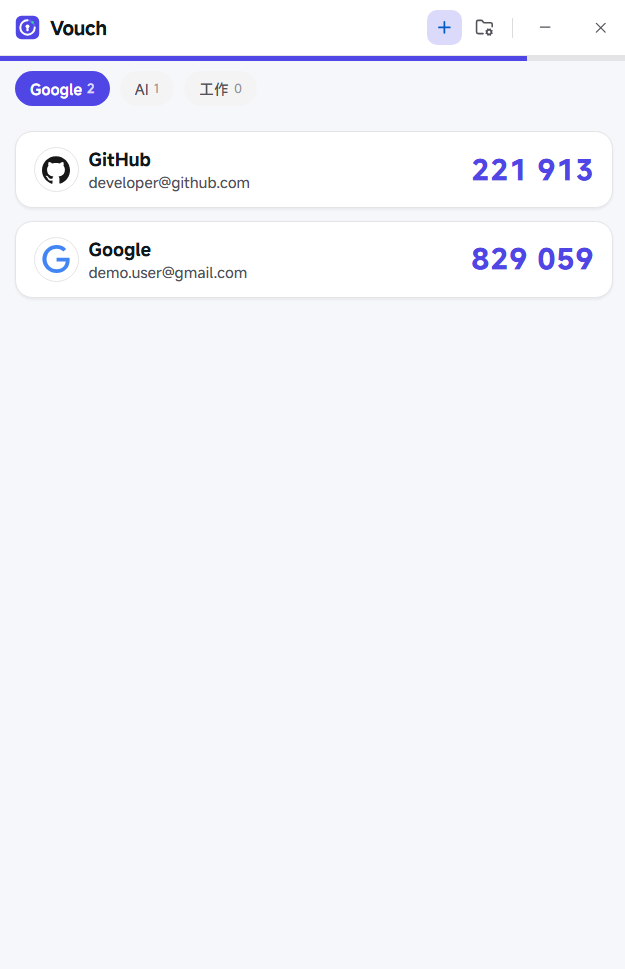
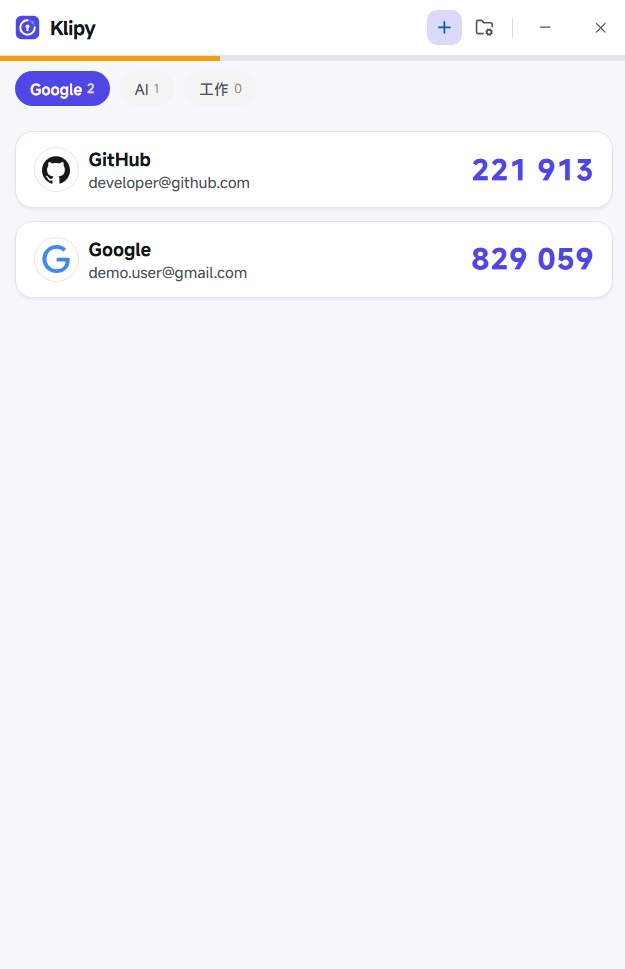
Rename app to Klipy and remove group count limit

Changed region(s): [[0.0, 0.0, 0.8208, 0.0619]]

diff --git a/src/renderer/components/GroupManagementPage.tsx b/src/renderer/components/GroupManagementPage.tsx
@@ -175,7 +175,7 @@ export function GroupManagementPage({ groups, accounts, onChanged }: GroupManage
                 color="primary"
                 startContent={!creating ? <Plus size={15} strokeWidth={2.2} /> : undefined}
                 isLoading={creating}
-                isDisabled={!name.trim() || groups.length >= 50}
+                isDisabled={!name.trim()}
                 onPress={() => void create()}
                 className="h-9 px-3.5 font-medium flex-shrink-0"
               >
@@ -201,7 +201,7 @@ export function GroupManagementPage({ groups, accounts, onChanged }: GroupManage
       <div className="flex items-center justify-between px-4 pt-1.5 pb-2">
         <span className="text-xs font-semibold text-default-600">分组列表</span>
         <span className="rounded-full bg-default-100 px-2 py-0.5 text-[11px] font-medium tabular-nums text-default-500">
-          {groups.length} / 50
+          {groups.length} 个
         </span>
       </div>
 

diff --git a/src/main/main.js b/src/main/main.js
@@ -68,7 +68,7 @@ async function createWindow() {
     fullscreenable: false,
     show: false,
     backgroundColor: '#f5f7fa',
-    title: 'Vouch',
+    title: 'Klipy',
     icon: path.join(root, 'public', 'app-icon.png'),
     webPreferences: {
       preload: path.join(__dirname, 'preload.js'),
@@ -97,7 +97,7 @@ app.whenReady().then(() => {
   registerIpc();
   return createWindow();
 }).catch((error) => {
-  dialog.showErrorBox('Vouch 启动失败', error.message);
+  dialog.showErrorBox('Klipy 启动失败', error.message);
   app.quit();
 });
 app.on('window-all-closed', () => app.quit());

diff --git a/src/renderer/components/TitleBar.tsx b/src/renderer/components/TitleBar.tsx
@@ -74,7 +74,7 @@ export const TitleBar: React.FC<TitleBarProps> = ({
           <>
             <Image
               src="./logo.svg"
-              alt="Vouch Logo"
+              alt="Klipy Logo"
               width={20}
               height={20}
               radius="none"
@@ -82,7 +82,7 @@ export const TitleBar: React.FC<TitleBarProps> = ({
               className="pointer-events-none"
             />
             <span className="text-[15px] font-semibold text-foreground tracking-tight">
-              Vouch
+              Klipy
             </span>
           </>
         )}

diff --git a/index.html b/index.html
@@ -4,7 +4,7 @@
     <meta charset="UTF-8" />
     <meta name="viewport" content="width=device-width, initial-scale=1.0" />
     <link rel="icon" type="image/svg+xml" href="./logo.svg" />
-    <title>Vouch</title>
+    <title>Klipy</title>
   </head>
   <body class="light bg-background text-foreground min-h-screen select-none">
     <div id="root"></div>

diff --git a/backend/GroupStore.cs b/backend/GroupStore.cs
@@ -12,7 +12,6 @@ namespace AuthenticatorBackend
     /// </summary>
     public class GroupStore
     {
-        private const int MaxGroups = 50;
         private const int MaxNameLength = 20;
 
         private readonly string _filePath;
@@ -85,10 +84,6 @@ namespace AuthenticatorBackend
             string clean = NormalizeName(name);
             lock (_lock)
             {
-                if (_groups.Count >= MaxGroups)
-                {
-                    throw new InvalidOperationException($"最多只能创建 {MaxGroups} 个分组。");
-                }
                 if (HasSameName(clean, null))
                 {
                     throw new InvalidOperationException("分组名称已存在。");
@@ -114,11 +109,6 @@ namespace AuthenticatorBackend
                 var existing = _groups.FirstOrDefault(g =>
                     string.Equals(g.Name, clean, StringComparison.OrdinalIgnoreCase));
                 if (existing != null) return ToDto(existing);
-
-                if (_groups.Count >= MaxGroups)
-                {
-                    throw new InvalidOperationException($"最多只能创建 {MaxGroups} 个分组。");
-                }
 
                 var group = new GroupRecord
                 {

diff --git a/HANDOFF.md b/HANDOFF.md
@@ -1,10 +1,10 @@
 # 项目交接文档 (Handoff Document)
 
-**项目名称**：Vouch（Windows 轻量级 2FA / TOTP 身份验证器）  
+**项目名称**：Klipy（Windows 轻量级 2FA / TOTP 身份验证器）  
 **当前版本**：`1.0.0`  
 **技术栈**：Electron 33.4.11 + React 18 + TypeScript + HeroUI (`@heroui/react` 2.8.10) + Tailwind CSS 3 + Framer Motion 11 + C# (.NET 10)  
 **文档日期**：2026-11-20  
-**最近更新**：2026-11-20 20:10（定名 Vouch、平面扁平式 Logo 重制、分组管理页 UI 优化并推送 GitHub 公开仓库）  
+**最近更新**：2026-11-20 20:16（定名 Klipy、移除分组数量上限、平面扁平式 Logo 重制、分组管理页 UI 优化并同步 GitHub 公开仓库）  
 **当前状态**：可运行；`dist/` 与 `bin/backend/` 已按最新代码重新构建并通过验证。  
 
 > ⚠ **不要清空 `%APPDATA%\WindowsAuthenticatorDemo`**：其中已是用户的真实数据（9 个账号，均在 `Google` 分组）。需要测试时请设置 `AUTHENTICATOR_DATA_DIR` 指向临时目录。
@@ -31,7 +31,7 @@
   - **账号头像**：内置 85 个常见品牌图标（`public/brands/si/<slug>.svg`，24×24 path + 官方品牌色），匹配时先看服务名称（issuer）、再看账号字段，因此「未命名 / Muse」这类迁移账号也能拿到图标；未识别服务或图片加载失败时使用名称缩写。素材出处见 [`public/brands/SOURCES.md`](public/brands/SOURCES.md)。
 - **分组管理**（账号必须归属分组，不提供「未分组」）：
   - 点击标题栏文件夹按钮进入独立「分组管理」页：标题栏左侧变为返回按钮，页面可**新建、重命名、删除**分组，并显示每个分组下的账号数。
-  - 分组名称校验：非空、最长 20 字符、不区分大小写去重；最多 50 个分组。错误提示由 `formatError` 剥离 Electron IPC 包装后直接展示后端中文文案。
+  - 分组名称校验：非空、最长 20 字符、不区分大小写去重；不限制分组数量。错误提示由 `formatError` 剥离 Electron IPC 包装后直接展示后端中文文案。
   - 删除分组前弹确认框，**组内账号会随分组一并删除**（确认框会标明数量与不可撤销）；重命名在同一位置内联编辑（Enter 保存、Esc 取消）。
   - 数据保存在 `%APPDATA%\WindowsAuthenticatorDemo\groups.json`；账号通过 `accounts.json` 中的 `groupId` 字段引用分组，后端在启动时会把「没有分组 / 分组已不存在」的历史账号收进「默认分组」，避免账号从界面上消失。
   - 账号列表顶部出现**分组筛选栏**（`GroupFilterBar`）：只列出各分组胶囊按钮（带数量），没有「全部」也没有「未分组」；进入列表时自动落在某个有效分组（优先第一个有账号的分组）。
@@ -221,7 +221,7 @@
 
 1. **密钥存储安全性**：目前为 Demo 阶段，账号 `secret` 以明文 JSON 存储在 `%APPDATA%\WindowsAuthenticatorDemo\accounts.json`（分组只存名称，不含密钥）。后续上线生产前建议在 C# 层使用 Windows DPAPI（`System.Security.Cryptography.ProtectedData`）对 `Secret` 字段或整文件进行本机用户态加密。
 2. **迁移导入范围**：`parsemigration` 只导入 TOTP 且算法非 MD5 的条目，HOTP 账号会被计入 `skipped` 并跳过；Google Authenticator 的分批导出（`batchSize > 1`）需要用户分别导入每个链接，当前不做跨批次合并。
-3. **分组容量与排序**：分组最多 50 个、名称最长 20 字符；分组本身按创建时间排序，不支持拖拽调整分组顺序。因为账号必须归属分组，**删除分组会连带删除组内账号**（确认框会显示数量），目前没有「移到其他分组」的批量操作；如需保留账号，请先在「编辑」里逐个改到其它分组。
+3. **分组容量与排序**：分组数量不设上限，名称最长 20 字符；分组本身按创建时间排序，不支持拖拽调整分组顺序。因为账号必须归属分组，**删除分组会连带删除组内账号**（确认框会显示数量），目前没有「移到其他分组」的批量操作；如需保留账号，请先在「编辑」里逐个改到其它分组。
 4. **自定义刷新周期兼容**：后端支持任意 `period`（如 60 秒），但当前前端 `<TotpProgress>` 动画与刷新定时器固定按 `30000ms` 周期计算。若后续在界面重新开放非 30 秒周期录入，需改为基于各账号 `period` 独立计算或分类展示倒计时。
 5. **独立打包与分发**：当前 `npm run build:backend` 采用框架依赖发布（依赖目标机器存在 .NET 10 运行时）。若需打包为独立安装包给无 .NET 环境的用户使用，可将 `build:backend` 调整为 `dotnet publish backend/AuthenticatorBackend.csproj -c Release -r win-x64 --self-contained true -p:PublishSingleFile=true -o bin/backend`，并引入 `electron-builder` 配置将 `dist/` 与 `bin/backend/` 一起打入安装包的 `resources`。
 6. **测试覆盖**：当前以构建检查、脚本化协议验证与无头渲染校验为主，尚未建立自动化单元测试套件。建议后续为 `TotpEngine.cs` 补充 RFC 6238 / RFC 4226 标准测试向量单元测试，并为 `MigrationParser` 增加固定样本测试。
@@ -293,20 +293,21 @@
   - 无头 Chrome（mock bridge，400×620@2x）16 项断言全 PASS：筛选栏仅 Google/AI 两个分组且无「未分组/全部」、Muse 与 OpenAI/Google/Mozilla 图标全部解码成功、`0penai` 命中 OpenAI、添加弹窗分组必选且提交时自动带上当前分组、删除确认显示「5 个账号…一并删除」、无分组时隐藏 `+` 且显示引导；截图见临时目录（不随仓库分发）。
   - 用户真实数据（9 个账号 + Google 分组）未被测试触碰。
 
-## 12. 品牌定名（Vouch）、平面扁平式 Logo 与分组管理 UI 优化（2026-11-20 晚）
+## 12. 品牌定名（Klipy）、平面扁平式 Logo、分组管理 UI 优化与移除分组上限（2026-11-20 晚）
 
-- **产品定名**：**Vouch**
-  - 纯英文短词，意为「证明、核验、担保可信」，不含 `auth`，与轻量化桌面 2FA 工具气质契合。
+- **产品定名**：**Klipy**
+  - 纯英文短词，融合 **K**ey（动态密钥）与 C**lip**（单击即复制到剪贴板），不含 `auth`，轻快好记。
   - 数据目录保持 `%APPDATA%\WindowsAuthenticatorDemo` 不变，确保用户已有真实数据不受影响。
 - **现代化平面扁平式 Logo**：
-  - 彻底移除旧版深色拟物玻璃、渐变与发光滤镜，重制为仅由 6 个基础几何图元构成的纯平 2D 矢量 SVG（`viewBox="0 0 512 512"`，约 0.98 KB）：
+  - 彻底移除旧版深色拟物玻璃、渐变与发光滤镜，重制为仅由 6 个基础几何图元构成的纯平 2D 矢量 SVG（`viewBox="0 0 512 512"`，约 0.97 KB）：
     - HeroUI 靛蓝圆角方形底托（`#4F46E5`）+ 纯平轨道（`#6860F0`）+ 270° 白色倒计时环（`#FFFFFF`）+ 右上 1:30 翠绿时间脉冲点（`#34D399`）+ 居中实心几何钥匙孔（`#FFFFFF`）。
   - 同步更新 `logo.svg`、`public/logo.svg`、`src/renderer/assets/logo.svg`，导出透明底 `512×512` 的 `public/app-icon.png` 作为 Electron 窗口与任务栏图标，并重绘浅色扁平风格的品牌展示图 `logo-preview.png`。
-- **分组管理页 UI 优化（`GroupManagementPage.tsx`）**：
-  - 删除底部「账号必须属于某个分组；删除分组会同时删除组内账号。」提示文案（删除确认弹窗内仍保留清晰的级联删除警示）。
-  - 顶部新建区收拢为单行紧凑卡片（带清除按钮与内联错误提示）；列表项改用 `Folder` 图标配柔和靛蓝圆角底托，统一卡片阴影与悬停反馈；重命名态独立高亮并就地展示校验错误；空状态与删除确认弹窗同步精细化排版。
+- **分组管理优化与取消上限**：
+  - 后端 `GroupStore.cs` 移除 `MaxGroups = 50` 限制，不再对分组总数设上限。
+  - 前端 `GroupManagementPage.tsx` 移除底部「账号必须属于某个分组；删除分组会同时删除组内账号。」文案及 50 上限禁用逻辑，计数胶囊改为 `{groups.length} 个`；顶部新建区收拢为单行紧凑卡片；列表项改用 `Folder` 图标配柔和靛蓝圆角底托并优化重命名态、空状态与删除确认弹窗。
 - **界面、文档与仓库**：
-  - 更新 `TitleBar.tsx`、`index.html`、`src/main/main.js`、`启动.bat`、`package.json`、`README.md` 与本文档，并初始化 Git 仓库推送至 GitHub 公开仓库。
+  - 更新 `TitleBar.tsx`、`index.html`、`src/main/main.js`、`启动.bat`、`package.json`、`README.md` 与本文档，并同步至 GitHub 公开仓库 `https://github.com/LuoMuQAQ/Klipy`。
 - **验证**：
-  - `npx tsc --noEmit` 与 `npm run build:vite` 均以退出码 `0` 通过。
+  - `npx tsc --noEmit`、`npm run build:vite` 与 `npm run build:backend` 均以退出码 `0` 通过。
+  - 协议测试（临时 `AUTHENTICATOR_DATA_DIR`）：连续创建 55 个分组全部成功，确认无上限限制。
   - 通过无头 Chrome 渲染查验 `logo-preview.png`、主界面标题栏与分组管理页（mock bridge，不触碰 `%APPDATA%\WindowsAuthenticatorDemo`）。

diff --git a/README.md b/README.md
@@ -1,8 +1,8 @@
-# Vouch
+# Klipy
 
 基于 **HeroUI (原 NextUI) + Electron + C# (.NET 10)** 开发的 Windows 轻量级桌面双重认证（2FA / TOTP）身份验证器。
 
-- **命名释义**：**Vouch** 意为「担保、核验、证明身份真实可信」，简短利落、直指 2FA 身份验证核心。
+- **命名释义**：**Klipy** 融合 **K**ey（动态密钥）与 C**lip**（单击卡片即刻写入剪贴板），轻快好记、开箱即用。
 
 ---
 
